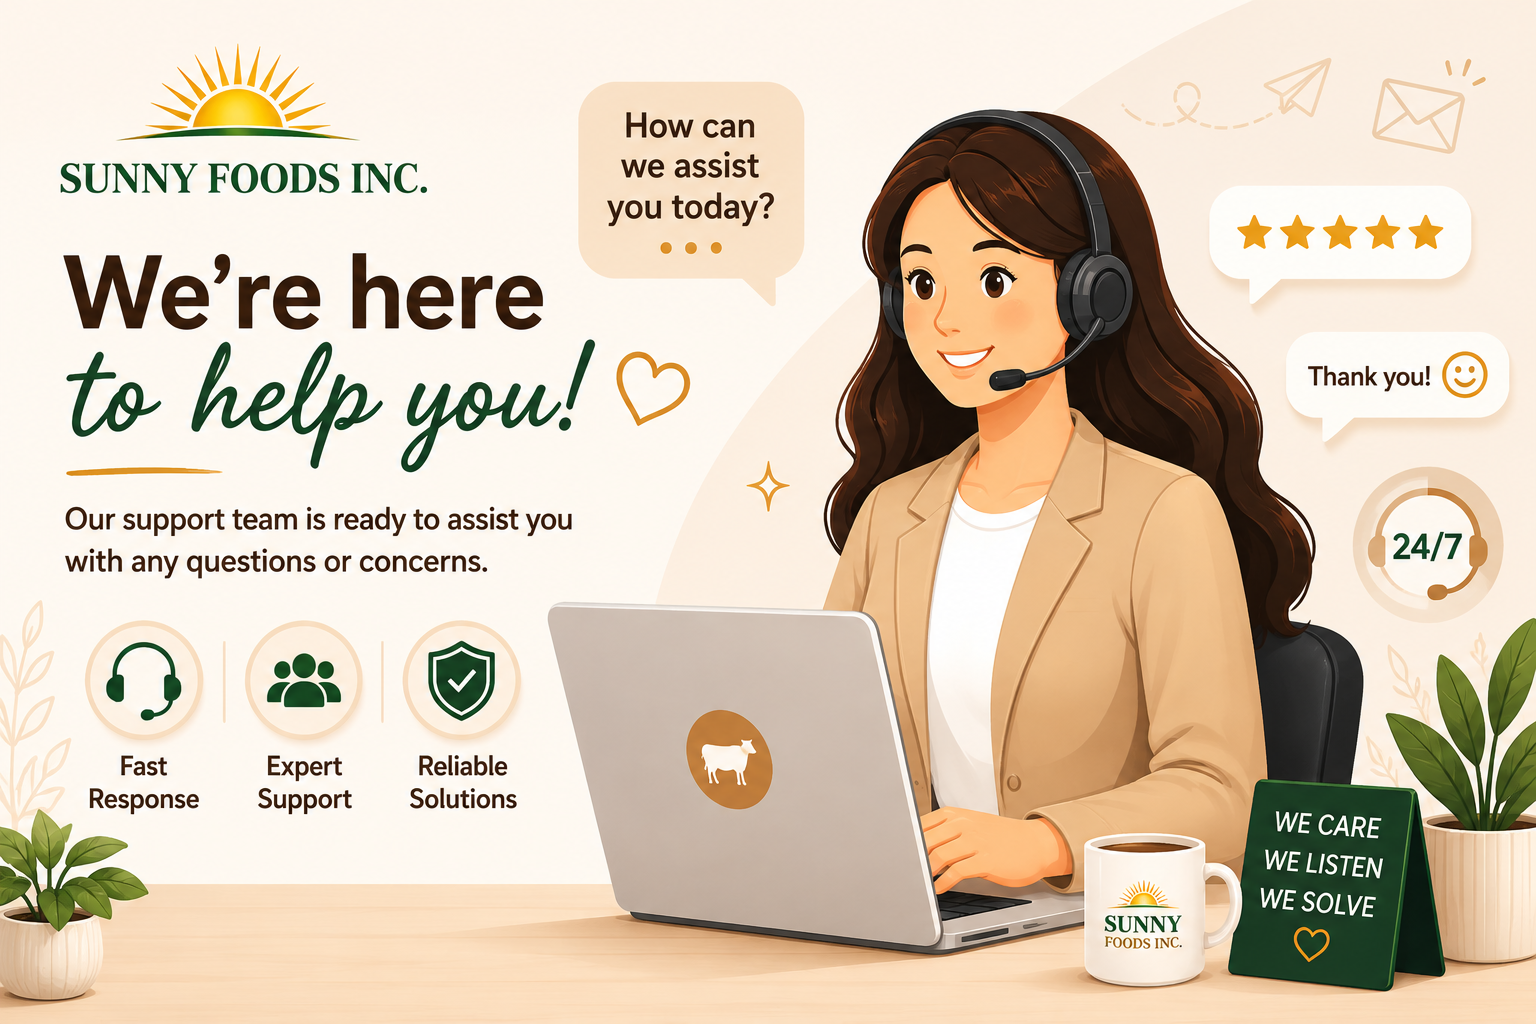
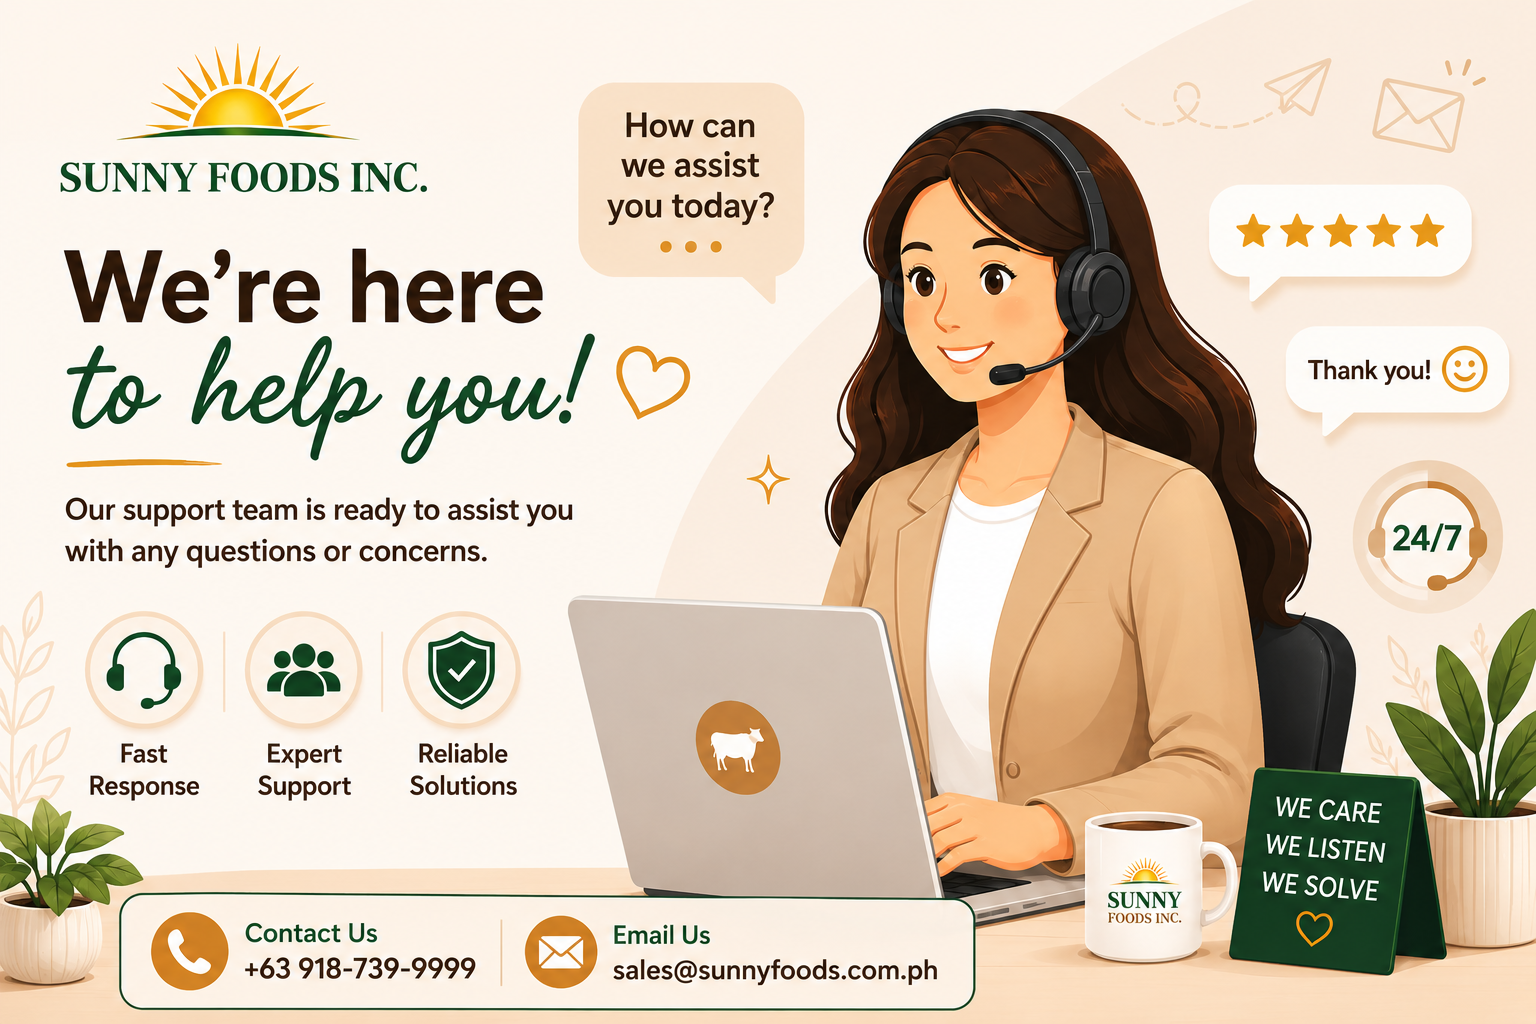
feat: service page finalization

diff --git a/src/pages/services/Services.tsx b/src/pages/services/Services.tsx
@@ -1,3 +1,5 @@
+import type { ComponentProps, PropsWithChildren } from "react";
+
 import { GiLaurelCrown } from "react-icons/gi";
 import { HiMiniStar } from "react-icons/hi2";
 import { TbMeat } from "react-icons/tb";
@@ -8,12 +10,31 @@ import { cn } from "~/libs/cn";
 
 import { brandAndProducts, wholesaleAndLogistics } from "./utils";
 
+const Container = (props: ComponentProps<"div">) => {
+  const { children, className, ...rest } = props;
+  return (
+    <div
+      className={cn("container mx-auto w-full space-y-5 md:px-5", className)}
+      {...rest}>
+      {children}
+    </div>
+  );
+};
+
+const CategoryTitle = ({ children }: PropsWithChildren) => {
+  return (
+    <h1 className="text-center text-4xl font-bold tracking-tighter md:tracking-tight lg:text-5xl">
+      {children}
+    </h1>
+  );
+};
+
 const ServiceHeader = () => {
   return (
-    <div className="space-y-5 text-center">
-      <div>
-        <div className="mx-auto flex h-8 w-8 items-center justify-center rounded-full border-2 border-(--light-brown) bg-white">
-          <GiLaurelCrown className="h-6 w-6 text-(--light-brown)" />
+    <Container className="text-center">
+      <div className="space-y-2">
+        <div className="mx-auto flex h-12 w-12 items-center justify-center rounded-full border-2 border-(--light-brown) bg-white">
+          <GiLaurelCrown className="h-10 w-10 text-(--light-brown)" />
         </div>
         <div className="flex items-center justify-center gap-1">
           <HiMiniStar className="hidden text-(--light-brown) md:block md:size-2" />
@@ -27,7 +48,7 @@ const ServiceHeader = () => {
           <HiMiniStar className="hidden text-(--light-brown) md:block md:size-2" />
         </div>
       </div>
-      <h1 className="flex flex-col text-4xl font-extrabold">
+      <h1 className="flex flex-col text-4xl font-extrabold lg:text-5xl">
         SERVICES TAILORED TO <span className="text-error">YOUR BUSINESS</span>
       </h1>
 
@@ -46,74 +67,70 @@ const ServiceHeader = () => {
         comprehensive services that enhance quality, convenience, and customer
         satisfaction at every step.
       </p>
-    </div>
+    </Container>
   );
 };
 
 const BrandAndProductService = () => {
   return (
-    <div className="space-y-10 md:px-5">
-      <h1 className="text-center text-4xl font-bold">
-        Brand & Product Development Service
-      </h1>
+    <Container>
+      <CategoryTitle>Brand & Product Development Service</CategoryTitle>
       {brandAndProducts.map((item, index) => (
         <div
-          className={cn(
-            "flex w-full flex-col items-center gap-5 lg:gap-10",
-            index % 2 !== 0 ? "lg:flex-row-reverse" : "lg:flex-row",
-          )}
           key={index}
-          data-aos={index % 2 !== 0 ? "fade-left" : "fade-right"}>
-          <div className="w-full overflow-hidden lg:h-100 lg:w-190 lg:rounded-xl">
-            <img
-              src={item.image}
-              alt="packaging and labeling"
-              className="h-full w-full"
-            />
-          </div>
-          <div className="w-full space-y-3 px-5 lg:w-2/3 lg:px-0">
-            <h1 className="text-center text-4xl font-semibold tracking-tight text-(--warm-red) md:text-5xl lg:text-start lg:text-6xl">
+          className={cn(
+            "flex flex-col items-center lg:gap-5",
+            index % 2 !== 0 ? "lg:flex-row-reverse" : "lg:flex-row",
+          )}>
+          <img src={item.image} className="lg:h-100 lg:w-2/5" alt="service" />
+          <div className="mt-5 space-y-3 px-5 lg:mt-0 lg:w-3/5">
+            <h1 className="text-center text-4xl font-bold tracking-tight text-(--warm-red) lg:text-start lg:text-5xl">
               {item.title}
             </h1>
-            <div className="space-y-2">
-              <h1 className="text-center text-base lg:text-start lg:text-lg">
-                {item.description}
-              </h1>
-              <div className="divider hidden lg:block" />
-              <ul className="hidden list-inside list-disc lg:block">
-                {item.bullet.map((data, ids) => (
-                  <li className="text-base lg:text-lg" key={ids}>
-                    {data}
-                  </li>
-                ))}
-              </ul>
-            </div>
+            <p className="text-center text-lg lg:text-start">
+              {item.description}
+            </p>
+            <ul className="space-y-3 lg:space-y-0">
+              {item.bullet.map(({ title, description, icons }, index) => (
+                <li
+                  key={index}
+                  className={cn(
+                    "text-center text-base tracking-tighter",
+                    "flex items-center justify-center gap-2",
+                    "rounded-xl border-2 border-(--light-brown)/50 px-2 py-2 shadow-sm",
+                    "lg:justify-start lg:gap-5 lg:border-none lg:shadow-none",
+                  )}>
+                  <div className="rounded-full border-4 border-(--light-brown) bg-(--light-brown)/10 p-2">
+                    {icons}
+                  </div>
+                  <div className="w-full text-start lg:w-full">
+                    <p className="text-lg font-bold italic">{title}</p>
+                    <p>{description}</p>
+                  </div>
+                </li>
+              ))}
+            </ul>
           </div>
         </div>
       ))}
-    </div>
+    </Container>
   );
 };
 
 const LogisticsAndSupply = () => {
   return (
-    <div className="space-y-10">
-      <h1 className="text-center text-4xl font-bold">
-        Wholesale, Logistics & Distribution
-      </h1>
-
+    <Container>
+      <CategoryTitle>Wholesale, Logistics & Distribution</CategoryTitle>
       <div className="flex flex-col md:flex-row" data-aos="fade-up">
         {wholesaleAndLogistics.map((item, index) => (
           <div
             key={index}
             className="h-full w-full cursor-pointer space-y-5 rounded-xl shadow-black/25 transition-all duration-150 hover:scale-105 hover:bg-(--light-brown)/30 hover:shadow-sm md:p-5">
-            <div className="relative">
-              <img
-                src={item.image}
-                className="relative h-full w-full transition-all duration-300 md:rounded-xl"
-                alt={item.title}
-              />
-            </div>
+            <img
+              src={item.image}
+              className="relative h-full max-h-110 w-full transition-all duration-300 md:rounded-xl"
+              alt={item.title}
+            />
             <div className="h-full">
               <h1 className="text-center text-4xl font-semibold tracking-tighter text-(--warm-red) lg:text-start">
                 {item.title}
@@ -130,30 +147,27 @@ const LogisticsAndSupply = () => {
           </div>
         ))}
       </div>
-    </div>
+    </Container>
   );
 };
 
 const BusinessSupportService = () => {
   return (
-    <div className="w-full space-y-5">
-      <h1 className="text-center text-4xl font-bold">
-        Business Support Services
-      </h1>
-
+    <Container>
+      <CategoryTitle>Business Support Services</CategoryTitle>
       <img
         src={CustomerService}
-        className="h-full w-full rounded-xl"
+        className="mx-auto h-full w-full md:h-[80%] lg:w-[80%] lg:rounded-xl"
         alt="customer-service"
         data-aos="zoom-in"
       />
-    </div>
+    </Container>
   );
 };
 
 const Services = () => {
   return (
-    <section className="container mx-auto space-y-20 py-20">
+    <section className="space-y-20 py-20">
       <ServiceHeader />
       <div className="divider m-10 mx-auto h-5 w-4/5 before:bg-linear-to-r before:from-[#F9F5F1] before:via-(--red) before:to-(--red) after:bg-linear-to-l after:from-[#F9F5F1] after:via-(--red) after:to-(--red)" />
       <BrandAndProductService />

diff --git a/src/pages/services/utils.tsx b/src/pages/services/utils.tsx
@@ -1,11 +1,22 @@
+import { FaCogs, FaTags } from "react-icons/fa";
+import { FaCircleCheck } from "react-icons/fa6";
+import { GiBoxUnpacking, GiManualMeatGrinder } from "react-icons/gi";
+import { IoShieldCheckmark } from "react-icons/io5";
+import {
+  MdOutlineAutoAwesome,
+  MdPermDataSetting,
+  MdScale,
+} from "react-icons/md";
+
 import Quality from "~/assets/icons/high-quality.png";
 import Packaging from "~/assets/icons/packaging-meat.png";
 import Restaurant from "~/assets/icons/restaurant.png";
 import FrozenMeat from "~/assets/icons/steak.png";
 import Stove from "~/assets/icons/stove.png";
-import BulkAndWholesale from "~/assets/services/bulk-wholesale.png";
+import BulkAndWholesale from "~/assets/services/bulk-ordering-wholesale.png";
+import ColdChainLogistics from "~/assets/services/cold-chain-logistics.png";
 import CustomMeat from "~/assets/services/custom-meat-order.png";
-import OEMPrivateLabel from "~/assets/services/OEM-Private-labeling.png";
+import OEMPrivateLabel from "~/assets/services/oem-private-label-final.png";
 import MeatPackage from "~/assets/services/packageLabeling.png";
 
 export const whyChooseProducts = [
@@ -46,6 +57,7 @@ export const whyChooseProducts = [
   },
 ];
 
+const listIconClass = "size-8 text-(--light-brown)";
 export const brandAndProducts = [
   {
     title: "Packaging / Labeling",
@@ -53,9 +65,24 @@ export const brandAndProducts = [
     description:
       "Custom packaging and labeling tailored to your needs, from vacuum-sealed portions to bulk orders, ensuring secure presentation and clear product information.",
     bullet: [
-      "Custom packaging options, from vacuum-sealed portions to bulk orders, tailored to meet your business requirements.",
-      "Clear and accurate labeling ensures product identification, compliance, and a professional presentation.",
-      "Secure and neatly finished packaging helps preserve product quality while ensuring reliable handling and distribution.",
+      {
+        icons: <GiBoxUnpacking className={listIconClass} />,
+        title: "Customized Packaging",
+        description:
+          "Custom packaging options, from vacuum-sealed portions to bulk orders, tailored to meet your business requirements.",
+      },
+      {
+        icons: <MdPermDataSetting className={listIconClass} />,
+        title: "Precise Labeling",
+        description:
+          "Clear and accurate labeling ensures product identification, compliance, and a professional presentation.",
+      },
+      {
+        icons: <IoShieldCheckmark className={listIconClass} />,
+        title: "Secure Finish",
+        description:
+          "Secure and neatly finished packaging helps preserve product quality while ensuring reliable handling and distribution.",
+      },
     ],
   },
   {
@@ -64,9 +91,24 @@ export const brandAndProducts = [
     description:
       "From product development to packaging and branding, our OEM and private label solutions help bring your vision to market with confidence.",
     bullet: [
-      "Delivering customized OEM and private label solutions tailored to your brand requirements.",
-      "Flexible production capabilities support product customization and brand growth",
-      "Strict quality control ensures consistency, compliance, and market-ready products",
+      {
+        icons: <FaTags className={listIconClass} />,
+        title: "Custom Label",
+        description:
+          "Delivering customized OEM and private label solutions tailored to your brand requirements.",
+      },
+      {
+        icons: <FaCogs className={listIconClass} />,
+        title: "Flexible Production",
+        description:
+          "Flexible production capabilities support product customization and brand growth",
+      },
+      {
+        icons: <FaCircleCheck className={listIconClass} />,
+        title: "Quality Control",
+        description:
+          "Strict quality control ensures consistency, compliance, and market-ready products",
+      },
     ],
   },
   {
@@ -75,9 +117,24 @@ export const brandAndProducts = [
     description:
       "Custom meat orders tailored to your specifications, with flexible cuts, weights, and packaging designed to meet your exact requirements.",
     bullet: [
-      "Personalized meat orders with custom cuts, portions, and specifications tailored to your unique needs.",
-      "Flexible packaging and weight options help ensure products align with your business requirements.",
-      "Our team works closely with you to fulfill special requests and deliver precisely what you need.",
+      {
+        icons: <GiManualMeatGrinder className={listIconClass} />,
+        title: "Personalize Cuts",
+        description:
+          "Personalized meat orders with custom cuts, portions, and specifications tailored to your unique needs.",
+      },
+      {
+        icons: <MdScale className={listIconClass} />,
+        title: "Flexible Weight Options",
+        description:
+          "Flexible packaging and weight options help ensure products align with your business requirements.",
+      },
+      {
+        icons: <MdOutlineAutoAwesome className={listIconClass} />,
+        title: "Tailored Solutions",
+        description:
+          "Our team works closely with you to fulfill special requests and deliver precisely what you need.",
+      },
     ],
   },
 ];
@@ -96,7 +153,7 @@ export const wholesaleAndLogistics = [
   },
   {
     title: "Cold Chain Logistics & Handling",
-    image: BulkAndWholesale,
+    image: ColdChainLogistics,
     description:
       "Reliable cold chain management ensures meat products remain fresh, safe, and in optimal condition from processing to delivery.",
     bullet: [